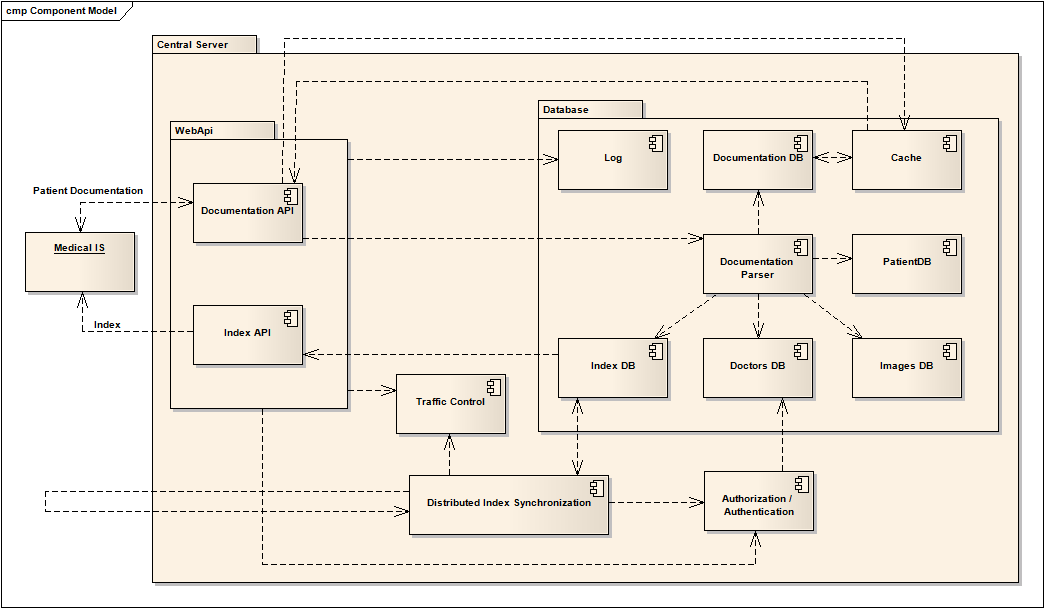
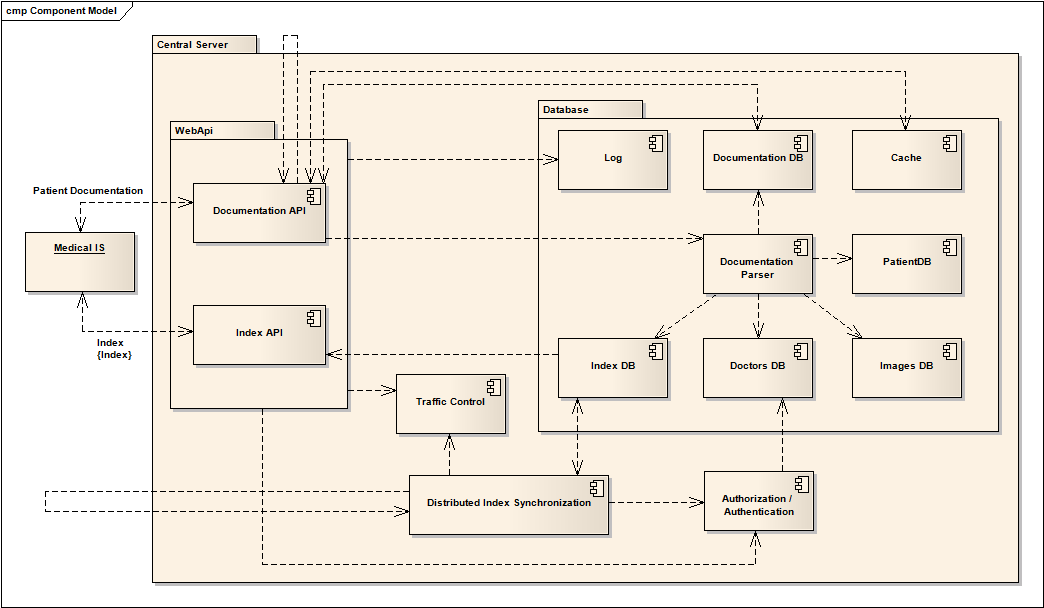
More graphs

diff --git a/README.md b/README.md
@@ -23,7 +23,7 @@ Všichni dokotři a zdravotnická zařízení mají telefon a přístup k počí
 ## Centralizované / distribuované řešení ##
 Systém může uchovávat dokumentaci na jednom místě, to má ale mnoho nevýhod - dostupnost, komunikační náročnost, ochrana osobních údajů, veliké množství dat. Tato centra se dají duplikovat - ochrana proti výpadku, ale tím dostáváme distribuovaný systém, kterému roste náročnost na synchronizaci mezi jednotlivými uzly.
 
-Proto navrhujeme udělt kompromisní řešení - centralizovat dokumentaci v daných uzlech a distribuovaně šířit pouze **Index** - seznam pacientů a jejich navštěv u doktorů a kódu vyšetření. 
+Proto navrhujeme kompromisní řešení - centralizovat dokumentaci v daných uzlech a distribuovaně šířit pouze **Index** - seznam pacientů a jejich navštěv u doktorů a kódu vyšetření. Tento index bude určovat, na kterém centrálním uzlu leží jaká konkrétní dokumentace.
 
 ## Index ##
 Pro **Index** očekáváme řádově desítky milionů záznamů, proto bude kladen důraz na minimální velikost jednoho záznamu. Ideálně tedy: 
@@ -31,6 +31,8 @@ Pro **Index** očekáváme řádově desítky milionů záznamů, proto bude kla
 <pre>ID pacienta | ID vyšetřujícího doktora | Datum vyšetření | ID zákroku | ID zařízení, kde je dokumentace uložena</pre>
 
 Jako ID pacienta by šlo použít rodné číslo, pokud by se dalo předpokládat, že je unikátní. Protože to ale neplatí, použijeme rodné číslo kombinované s celým jménem pacienta.
+
+ID doktora bude bráno jako kombinace názvu jeho informačního systému, který používá, a přihlašovacího jména, kterým se přihlašuje. Tyto informačná systémy si unikátnost přihlašovacích údajů řeší samy, tedy unikátnost takto vytvořených ID je zaručena. Případné kolize se dají řešit při registraci doktora do PDE systému.
 
 Index lze šířit dvěma způsoby:
 
@@ -59,6 +61,9 @@ Asi by mělo záležet na domluvě doktora a pacienta, co se může sdílet a co
 
 ### Jak dočasně zpřístupnit dokumentaci? ###
 Případ "Pacient si přinese kartu od jednoho doktora k druhému pro vyšetření" se dá nahradit jako vyměnění elektronického povolení mezi doktory pro zobrazení dokumentace pacienta.
+
+## Registrace doktorů ##
+Každý doktor se zaregistruje do systému PDE, dostane pevné ID, pod kterým bude identifikován v rámci systému, rovněž mu bude přiřazen centrální uzel, se kterým bude jeho informační systém komunikovat.
 
 # Případy použití #
 
@@ -109,10 +114,15 @@ Zdravotnické informační systémy: Medicus, ...
 
 ## DÚ 2 (do 29.11.2013)##
 - Dodělat obrázek (přidat chybějící komponenty)
+![](https://raw.github.com/onashackem/PDE/master/doc/ComponentModel.png?login=onashackem&token=bf9fed6fcded562c4f64a474d4f98640)
+(TODO: okomentovat trochu)
+
 - Data flow charts
+-![](https://raw.github.com/onashackem/PDE/master/doc/DF_ObtainDocumentation.png?token=773595__eyJzY29wZSI6IlJhd0Jsb2I6b25hc2hhY2tlbS9QREUvbWFzdGVyL2RvYy9ERl9PYnRhaW5Eb2N1bWVudGF0aW9uLnBuZyIsImV4cGlyZXMiOjEzODU2NTg5Mzl9--61797ac040e29a9776980d36a88ffcdf06e5061d)
+
+![](https://raw.github.com/onashackem/PDE/master/doc/DF_UploadDocumentation.png?token=773595__eyJzY29wZSI6IlJhd0Jsb2I6b25hc2hhY2tlbS9QREUvbWFzdGVyL2RvYy9ERl9VcGxvYWREb2N1bWVudGF0aW9uLnBuZyIsImV4cGlyZXMiOjEzODU2NTg5NjB9--7963982d4ec30a7daaa07e95c1d250c09c2e713f) 
 - State charts pro popis scénářů
-	- vložení dokumentace
-	- update dokumentace
+	- vložení/úprava dokumentace
 	- vyžádání dokumentace (Index)
 	- vyžádání dokumentace (dokument)
 - Rozpracovat Security, Availability, Performance
